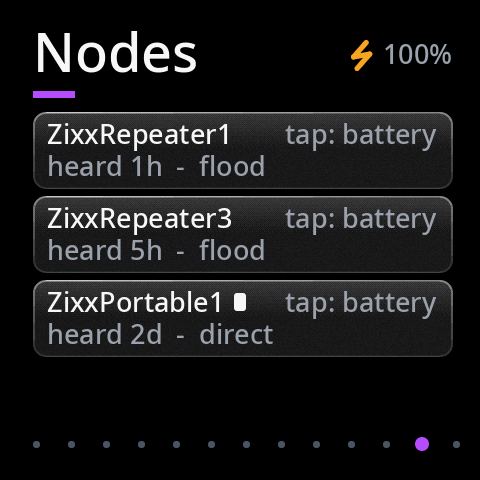
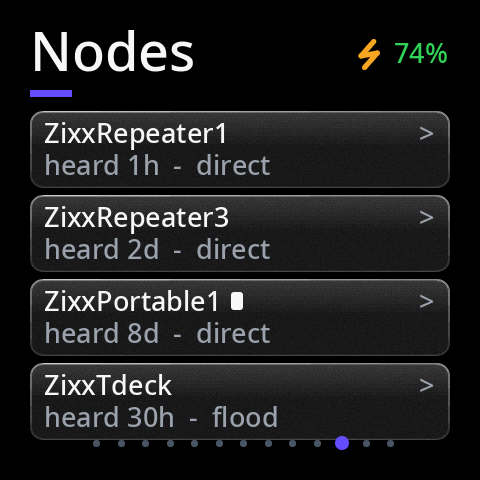
README screenshots: boot screen, node card, Ping; Nodes retaken
Taken on the board in the README's look (SF32_SHOT_THEME); the Nodes
shot still showed the old "tap: battery" rows.

Claude-Session: https://claude.ai/code/session_01BS1aGjNmWVV3cRX57ZjrXH

Changed region(s): [[0.0625, 0.1875, 0.9688, 0.9375], [0.0625, 0.0625, 0.4062, 0.1562], [0.7188, 0.0625, 0.9375, 0.1562]]

diff --git a/README.md b/README.md
@@ -88,6 +88,12 @@ Vesper is free and open source. If it's useful to you, you can support its devel
 <td align="center"><img src="docs/images/starlit.png" width="180"><br><sub>Your Starlit</sub></td>
 <td align="center"><img src="docs/images/starlit-petted.png" width="180"><br><sub>Stroked</sub></td>
 <td align="center"><img src="docs/images/starlit-friend.png" width="180"><br><sub>Meeting a friend's</sub></td>
+<td align="center"><img src="docs/images/boot.png" width="180"><br><sub>Boot screen</sub></td>
+</tr>
+<tr>
+<td align="center"><img src="docs/images/node-card.png" width="180"><br><sub>A node's card</sub></td>
+<td align="center"><img src="docs/images/ping.png" width="180"><br><sub>Ping a repeater</sub></td>
+<td></td>
 <td></td>
 </tr>
 </table>
